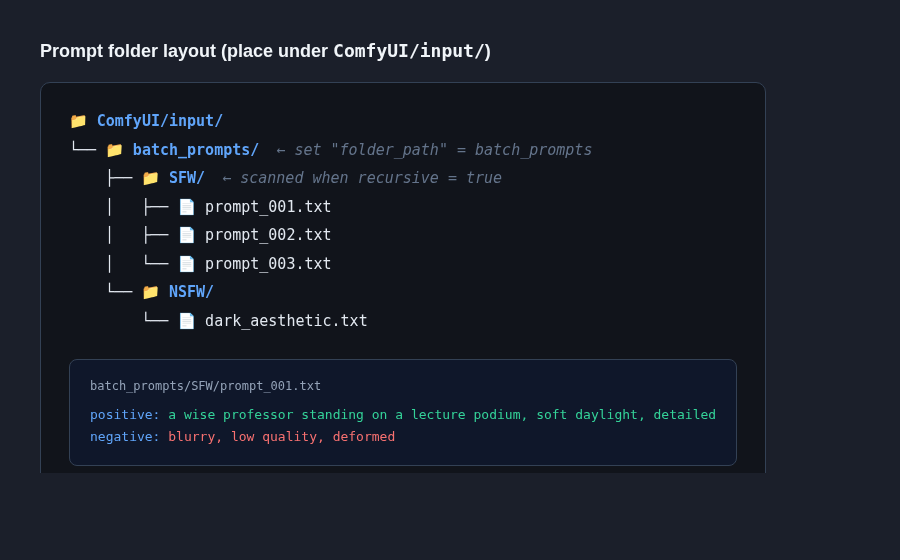
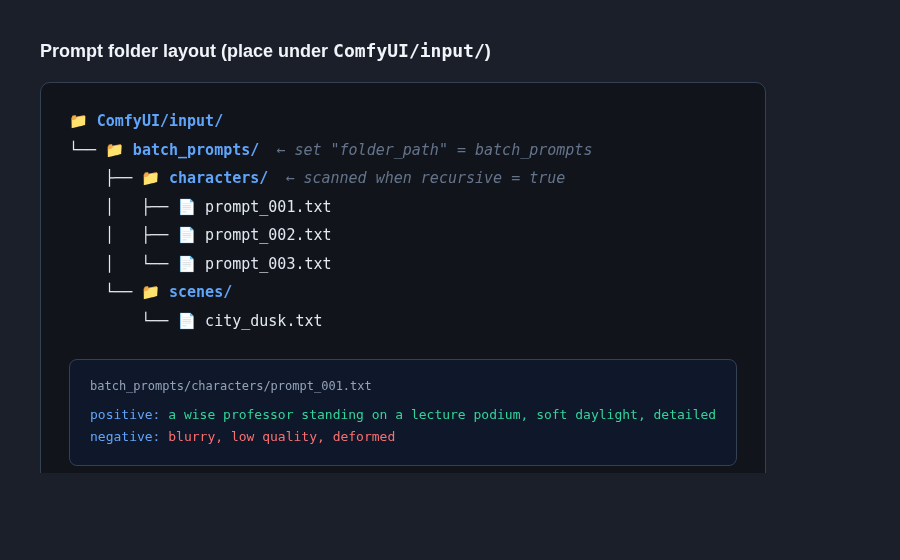
docs(readme): fix screenshots and release badge

diff --git a/README.md b/README.md
@@ -4,12 +4,12 @@ A ComfyUI custom node that batch-loads and encodes TXT prompt files from a folde
 
 > 从文件夹批量加载并编码 TXT 提示词的 ComfyUI 自定义节点，支持固定/递增/递减/随机四种索引、递归扫描、通配符过滤、跳过已处理与外置日志。
 
-[![Release workflow](https://img.shields.io/github/actions/workflow/status/ReSerendipity/ComfyUI-BatchPromptLoader/release.yml?branch=main&label=release&logo=github)](https://github.com/ReSerendipity/ComfyUI-BatchPromptLoader/actions/workflows/release.yml)
-[![Latest Release](https://img.shields.io/github/v/release/ReSerendipity/ComfyUI-BatchPromptLoader?display_name=tag&sort=semver)](https://github.com/ReSerendipity/ComfyUI-BatchPromptLoader/releases)
 [![Language: Python](https://img.shields.io/badge/language-Python-3776AB?logo=python&logoColor=white)](https://www.python.org/)
 [![Last commit](https://img.shields.io/github/last-commit/ReSerendipity/ComfyUI-BatchPromptLoader)](https://github.com/ReSerendipity/ComfyUI-BatchPromptLoader/commits/main)
 [![PRs welcome](https://img.shields.io/badge/PRs-welcome-brightgreen.svg)](CONTRIBUTING.md)
 [![License: MIT](https://img.shields.io/badge/License-MIT-blue.svg)](LICENSE)
+
+> 📦 仓库当前**暂无正式 Release / tag**；发布流程见下方"文档与治理"。
 
 **[中文](#中文) · [English](#english)**
 
@@ -24,8 +24,8 @@ ComfyUI-BatchPromptLoader 是一个面向"多提示词 × 多张图"批量生成
 ### 核心特性
 
 - 📁 **递归扫描**：自动扫描文件夹及所有子目录中的 `.txt` 文件。
-- 🔍 **通配符过滤**：`file_pattern` 支持 `*.txt`、`SFW_*.txt`、`*_v2.txt` 等文件名模式。
-- 🎲 **四种索引模式**：`fixed` / `increment` / `decrement` / `random`，由 `Current Index` 控件的"生成后控制"菜单直接切换。
+- 🔍 **通配符过滤**：`file_pattern` 支持 `*.txt`、`character_*.txt`、`*_v2.txt` 等文件名模式。
+- 🎲 **四种索引模式**：`fixed` / `increment` / `decrement` / `random`，由 `Current Index` 控件的"生成后控制"菜单直接切换（ComfyUI 原生菜单把该项显示为 `randomize`，对应节点值 `random`）。
 - ♻ **内置自动递增**：每次 Queue 后自动推进索引，并在重启 ComfyUI 后从上次位置继续。
 - ⏭ **跳过已存在**：`skip_exists` + `output_folder` 可按输出目录同名图片跳过，避免重复渲染。
 - 📋 **外置日志记录**：`enable_logging` 把已处理文件写到 `user/default/batch_prompt_logs/` 下的 JSON，中断后重跑自动跳过；可整目录清空或按单文件删除。
@@ -124,7 +124,7 @@ negative: blurry, low quality, deformed
 
 - 文件按路径字典序（不区分大小写）排列；子目录中的文件排在其父目录文件之后。
 - `reverse_order = true` 对整个列表倒序。
-- `file_pattern = "SFW_*.txt"` 可只挑出特定前缀的文件。
+- `file_pattern = "character_*.txt"` 可只挑出特定前缀的文件。
 
 **中断续跑（外置日志）：**
 
@@ -179,8 +179,8 @@ ComfyUI-BatchPromptLoader is a real ComfyUI custom node (with `__init__.py` and 
 ### Features
 
 - 📁 **Recursive scan**: walks the folder and every subdirectory for `.txt` files.
-- 🔍 **Wildcard filter**: `file_pattern` supports `*.txt`, `SFW_*.txt`, `*_v2.txt`, etc.
-- 🎲 **Four index modes**: `fixed` / `increment` / `decrement` / `random`, switched directly from the `Current Index` control's "control after generate" menu.
+- 🔍 **Wildcard filter**: `file_pattern` supports `*.txt`, `character_*.txt`, `*_v2.txt`, etc.
+- 🎲 **Four index modes**: `fixed` / `increment` / `decrement` / `random`, switched directly from the `Current Index` control's "control after generate" menu (ComfyUI's native menu labels this item `randomize`, which maps to the node value `random`).
 - ♻ **Built-in auto-advance**: the index advances per Queue and resumes where it left off after a ComfyUI restart.
 - ⏭ **Skip existing**: `skip_exists` + `output_folder` skips files whose output image already exists.
 - 📋 **External progress log**: `enable_logging` writes one JSON per processed file under `user/default/batch_prompt_logs/`; re-runs after an interruption auto-skip completed files.
@@ -279,7 +279,7 @@ Without a `positive:` header, the whole file body is treated as positive.
 
 - Files are sorted lexicographically (case-insensitive); files in subdirectories come after their parent directory's files.
 - `reverse_order = true` reverses the entire list.
-- `file_pattern = "SFW_*.txt"` selects only files with a specific prefix.
+- `file_pattern = "character_*.txt"` selects only files with a specific prefix.
 
 **Resume after interruption (external log):**
 
